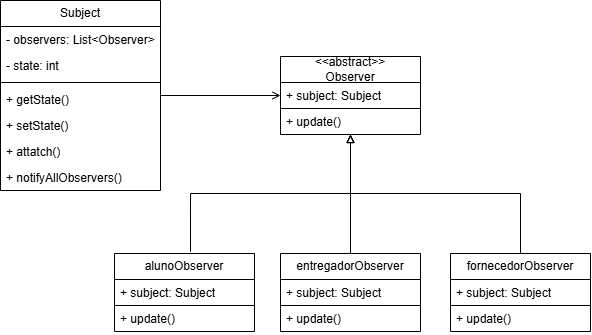
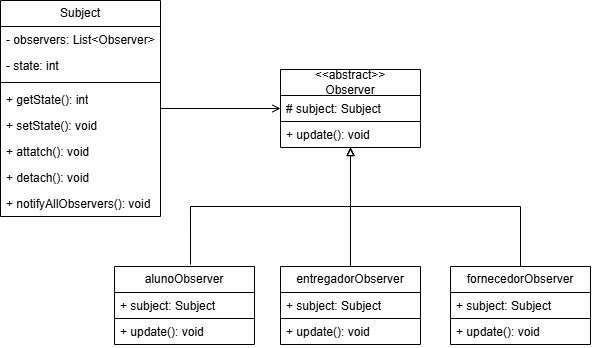
docs: correção diagrama

diff --git a/docs/PadroesDeProjeto/Comportamentais/Observer.md b/docs/PadroesDeProjeto/Comportamentais/Observer.md
@@ -143,7 +143,7 @@ Esta implementação evidencia como o padrão Builder simplifica a criação de 
     <strong>Figura 1</strong> – Diagrama UML Observer cadastro de usuários no PodePedirFCTE
 </p>
 
-![Diagrama UML Observer PodePedirFCTE](/docs/assets/observer/observer.png)
+![Diagrama UML Observer PodePedirFCTE](../../assets/observer/observer.png)
 
 <p>
     <strong>Autor: autoria da equipe</strong>, 2025
